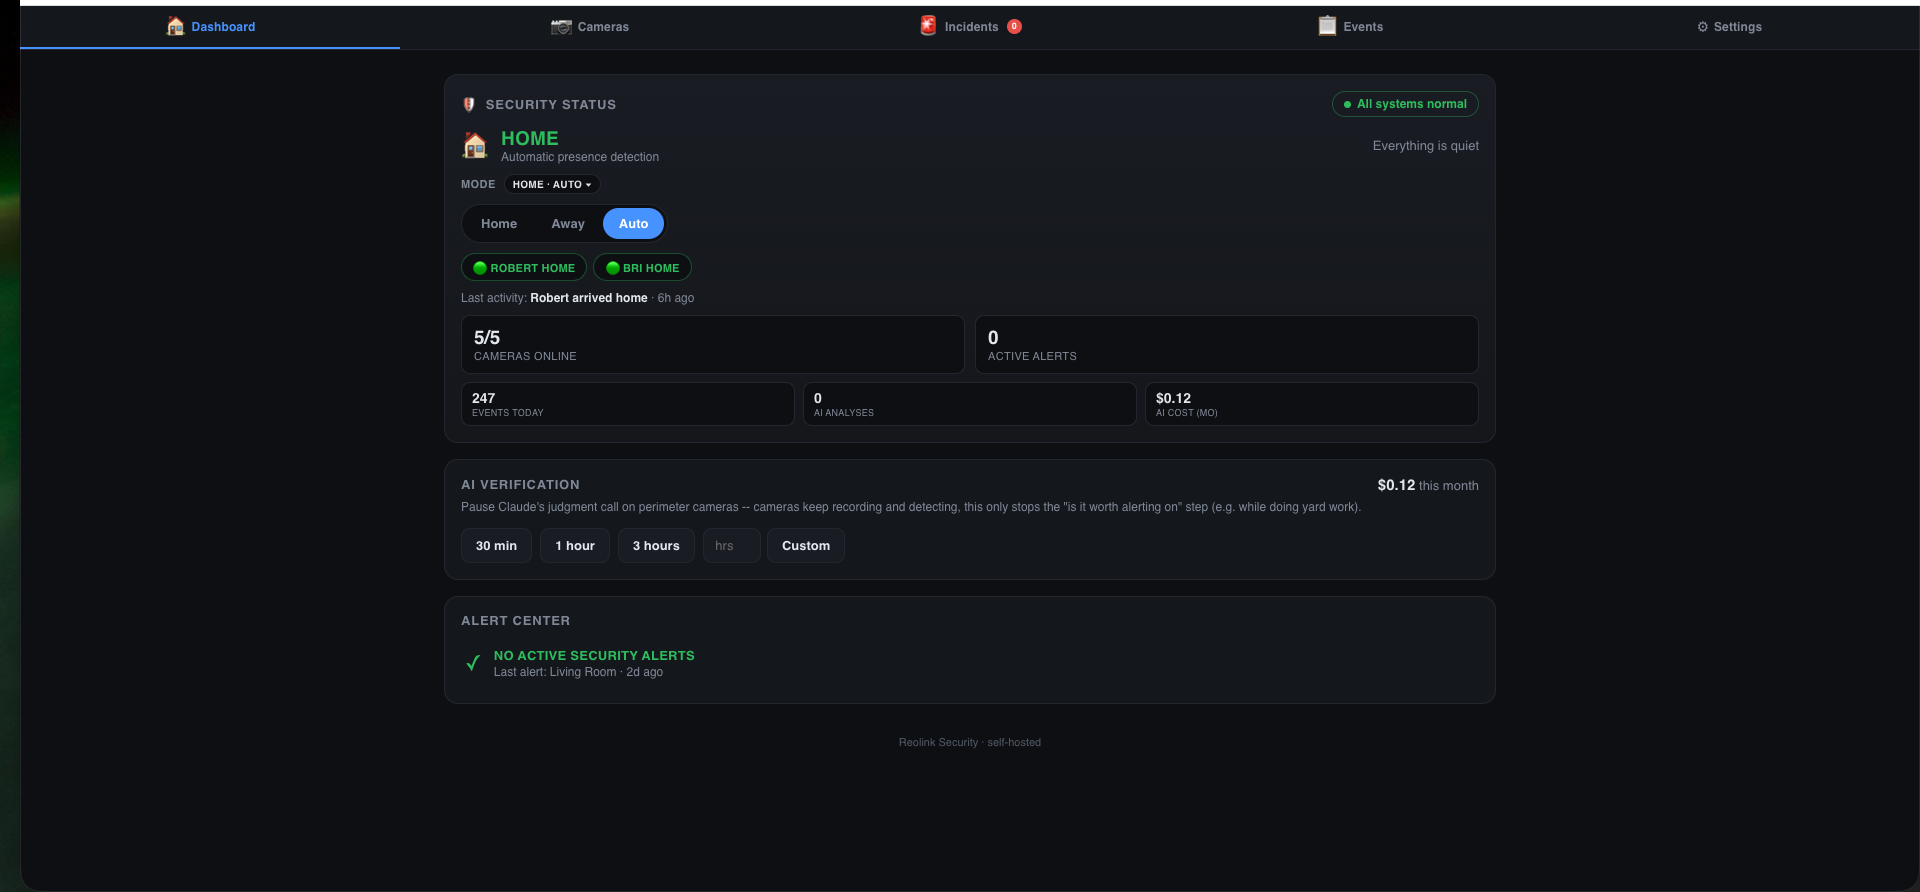
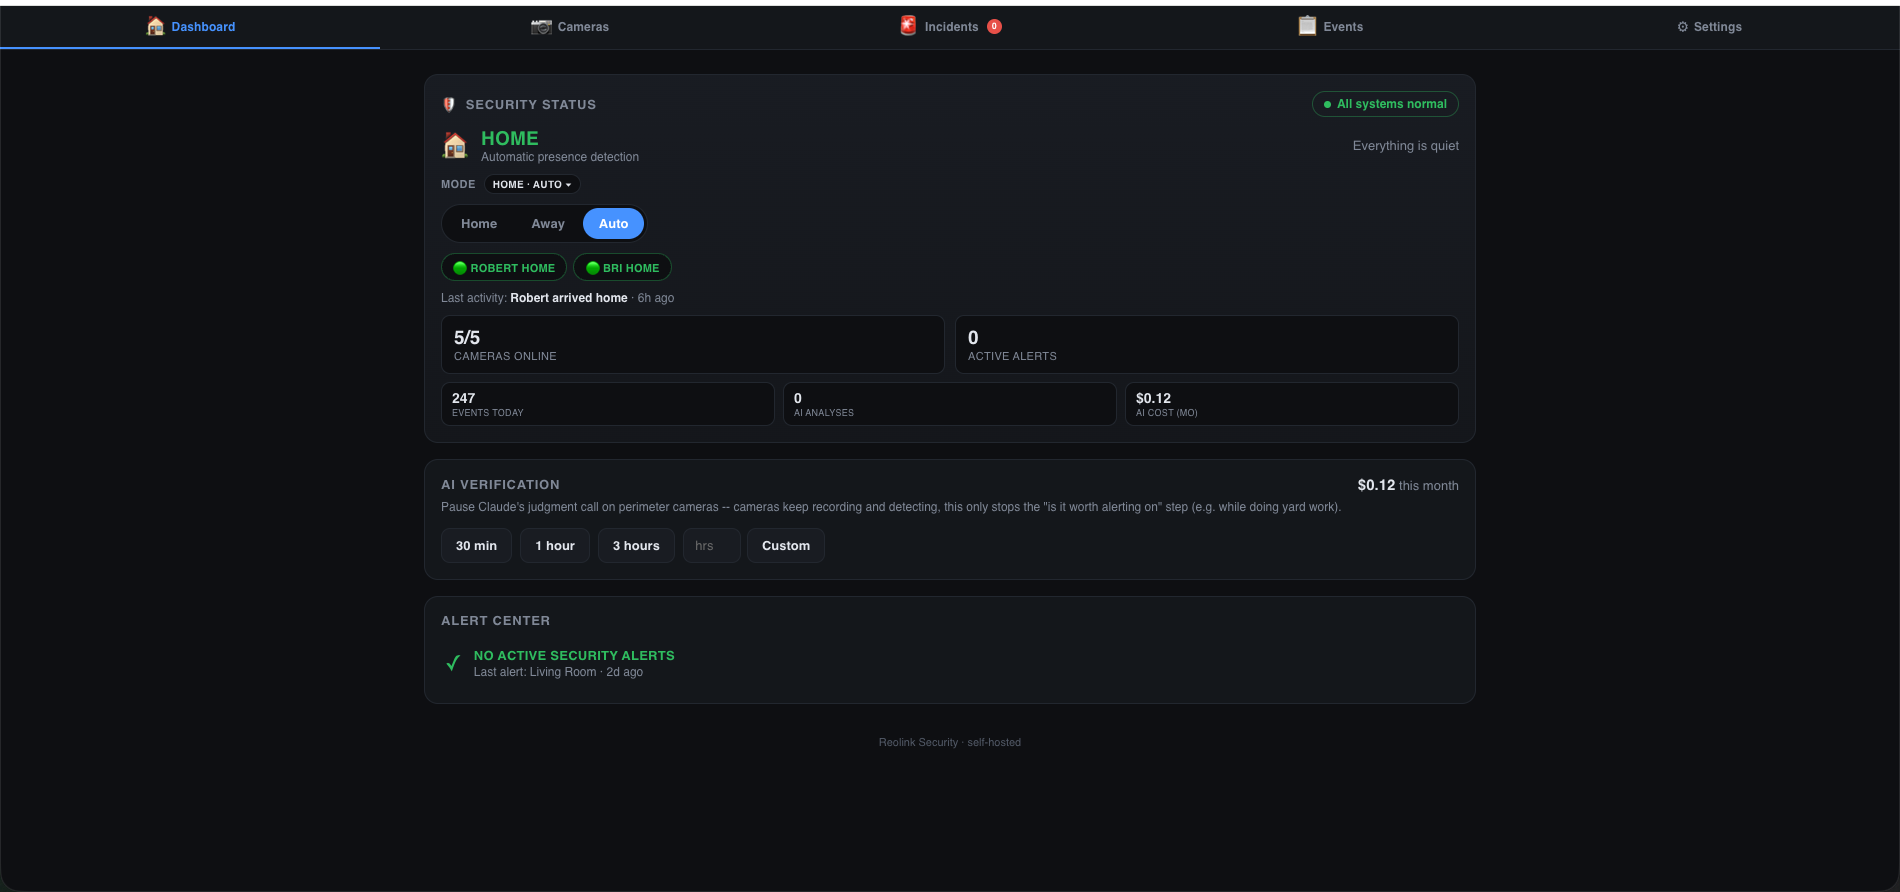
Fix baked-in edge artifact on Home Security / NCC screenshots; further Homelab card compaction
Root cause of the "unused frame space" on Home Security and Network
Command Center was NOT a container/CSS width mismatch. Exhaustive
verification (DOM chain, computed aspect-ratio, real served-file
dimensions, and pixel-level scanning at the frame's exact
getBoundingClientRect() boundary) showed the CSS box and object-fit
math were already correct: aspect-[1920/892] exactly matched the source
files' intrinsic ratio, and there was zero background-image anywhere in
the ancestor chain from <img> up to <html> (ruling out the initially
suspected "mountain artwork bleed" entirely).

The actual defect: both home-security.png and network-command-center.png
have a ~20px-wide (of 1920px, ~1%) vertical strip of green pixels baked
into their left edge, confirmed via direct pixel sampling of the raw PNG
files across their full height — a leftover artifact from however these
screenshots were originally captured, not a rendering bug. At mobile
scale this reads as a persistent green edge/blob immediately inside the
frame, exactly as reported.

- public/portfolio/projects/home-security.png,
  network-command-center.png: cropped 20px off the left edge of both
  (1920x892 -> 1900x892), removing the artifact entirely. Verified via
  raw pixel scan of the source files and a rendered close-up (0px unused
  frame area on either edge; screenshot content now begins immediately
  inside the rounded frame's true boundary).
- ScreenshotFrame: "screenshot" aspect preset updated from
[…]

diff --git a/src/components/ProjectCard.tsx b/src/components/ProjectCard.tsx
@@ -30,7 +30,7 @@ export default function ProjectCard({
           }
           aspect="supporting"
         />
-        <div className="flex flex-1 flex-col p-5 lg:p-6">
+        <div className="flex flex-1 flex-col p-4 lg:p-6">
           <div className="flex items-start justify-between gap-4">
             <p className="font-mono text-[11px] uppercase tracking-wide text-accent-bright">
               {project.subtitle}
@@ -42,13 +42,13 @@ export default function ProjectCard({
               →
             </span>
           </div>
-          <h3 className="mt-1.5 text-lg font-semibold text-text-main lg:mt-2">
+          <h3 className="mt-1 text-lg font-semibold text-text-main lg:mt-2">
             {project.title}
           </h3>
-          <p className="mt-2.5 line-clamp-3 flex-1 text-sm leading-relaxed text-text-muted lg:mt-3">
+          <p className="mt-2 line-clamp-3 flex-1 text-sm leading-relaxed text-text-muted lg:mt-3">
             {project.description}
           </p>
-          <div className="mt-4 flex flex-wrap gap-2 lg:mt-5">
+          <div className="mt-3 flex flex-wrap gap-2 lg:mt-5">
             {project.tags.map((tag) => (
               <Tag key={tag}>{tag}</Tag>
             ))}

diff --git a/src/components/ScreenshotFrame.tsx b/src/components/ScreenshotFrame.tsx
@@ -44,10 +44,10 @@ const ratios: Record<NonNullable<ScreenshotFrameProps["aspect"]>, string> = {
   // unchanged 4:3 at lg+.
   supporting: "aspect-[16/9] lg:aspect-[4/3]",
   // For real application screenshots (fit="contain") only — matches the
-  // screenshots' own intrinsic ~1920x892 shape below lg so object-contain
-  // has virtually no letterboxing and the capture fills nearly the whole
-  // frame; unchanged 21/9 editorial banner at lg+.
-  screenshot: "aspect-[1920/892] lg:aspect-[21/9]",
+  // screenshots' own intrinsic 1900x892 shape (cropped of a baked-in edge
+  // artifact) below lg so object-contain has zero letterboxing and the
+  // capture fills the whole frame; unchanged 21/9 editorial banner at lg+.
+  screenshot: "aspect-[1900/892] lg:aspect-[21/9]",
 };
 
 export default function ScreenshotFrame({
